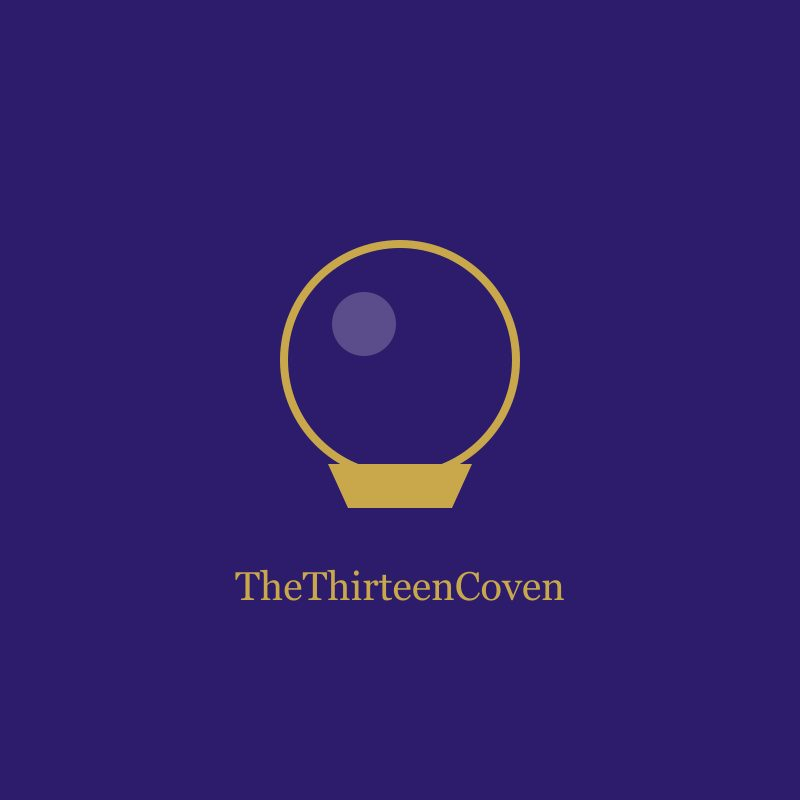
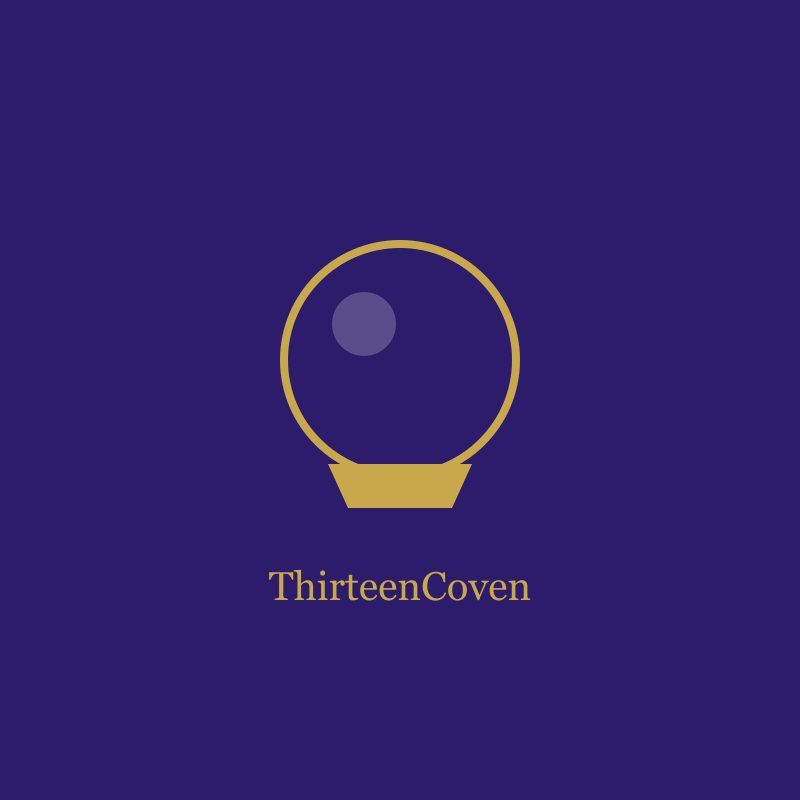
Rename brand from TheThirteenCoven to ThirteenCoven
Covers page metadata and titles, header, hero, footer, about copy, buyer
protection panel, review responses, messages, admin defaults and YouTube
upload descriptions. Also regenerates the placeholder image, which had the
old name baked into its pixels.

The domain (thirteencoven.com) and contact address were already correct
and are unchanged.

Changed region(s): [[0.2812, 0.6875, 0.7188, 0.75]]

diff --git a/components/AdminClient.tsx b/components/AdminClient.tsx
@@ -1020,7 +1020,7 @@ function VideoUrlPicker({ value, onChange }: { value: string; onChange: (url: st
     const fd = new FormData()
     fd.append('file', file)
     fd.append('title', 'Client Testimonial')
-    fd.append('description', 'TheThirteenCoven — Client Testimonial')
+    fd.append('description', 'ThirteenCoven — Client Testimonial')
     const interval = setInterval(() => setProgress(p => Math.min(p + 7, 90)), 800)
     const res = await fetch('/api/admin/youtube', { method: 'POST', body: fd })
     const data = await res.json()
@@ -1307,7 +1307,7 @@ function AdminAbout() {
             type="text"
             className="w-full border rounded-xl px-4 py-2.5 text-sm outline-none"
             style={{ borderColor: '#d1d5db', color: '#1a1040' }}
-            placeholder="About TheThirteenCoven"
+            placeholder="About ThirteenCoven"
             value={heading}
             onChange={e => setHeading(e.target.value)}
           />
@@ -1438,7 +1438,7 @@ function AdminBranding() {
           {bannerUrl
             // eslint-disable-next-line @next/next/no-img-element -- admin-only preview of an already-optimised Cloudinary upload
             ? <img src={bannerUrl} alt="Current shop banner" className="w-full h-full object-cover" />
-            : <p className="text-white/40 text-sm italic">TheThirteenCoven</p>
+            : <p className="text-white/40 text-sm italic">ThirteenCoven</p>
           }
           <div className="absolute inset-0 bg-black/40 opacity-0 group-hover:opacity-100 transition-opacity flex items-center justify-center">
             <p className="text-white text-sm font-semibold flex items-center gap-2"><Upload size={16} /> {uploading === 'banner' ? 'Uploading...' : 'Change banner'}</p>
@@ -1717,7 +1717,7 @@ function AdminMessages() {
                   id="admin-reply"
                   value={reply}
                   onChange={e => setReply(e.target.value)}
-                  placeholder="Reply as TheThirteenCoven…"
+                  placeholder="Reply as ThirteenCoven…"
                   className="flex-1 border border-gray-200 rounded-full px-4 py-2 text-sm outline-none focus:border-gray-400"
                 />
                 <button type="submit" disabled={sending || !reply.trim()}
@@ -1782,7 +1782,7 @@ function MediaUploader({
     const fd = new FormData()
     fd.append('file', file)
     fd.append('title', productTitle || 'Product Video')
-    fd.append('description', `TheThirteenCoven — ${productTitle || 'Product Video'}`)
+    fd.append('description', `ThirteenCoven — ${productTitle || 'Product Video'}`)
 
     // Simulate progress (YouTube API doesn't give progress via fetch)
     const progressInterval = setInterval(() => {

diff --git a/components/Footer.tsx b/components/Footer.tsx
@@ -61,7 +61,7 @@ export default function Footer() {
             <Link href="/" className="flex items-center gap-2">
               <Star size={22} className="text-yellow-400 fill-yellow-400" />
               <span className="font-bold text-lg" style={{ fontFamily: 'Georgia, serif' }}>
-                TheThirteenCoven
+                ThirteenCoven
               </span>
             </Link>
             <p className="text-sm text-white/60 mt-3 max-w-xs">
@@ -92,7 +92,7 @@ export default function Footer() {
         {/* Bottom row: socials + copyright */}
         <div className="mt-10 pt-6 border-t border-white/10 flex flex-col sm:flex-row items-center justify-between gap-4">
           <p className="text-xs text-white/50 order-2 sm:order-1">
-            © {new Date().getFullYear()} TheThirteenCoven. All rights reserved.
+            © {new Date().getFullYear()} ThirteenCoven. All rights reserved.
           </p>
           <SocialIcons links={socialLinks} className="order-1 sm:order-2 text-white/70" />
         </div>

diff --git a/components/ProductDetailClient.tsx b/components/ProductDetailClient.tsx
@@ -382,7 +382,7 @@ export default function ProductDetailClient({ product, reviews, shopStats, relat
             <path d="M15 18l2 2 4-4" stroke="#7c3aed" strokeWidth="1.5" strokeLinecap="round" strokeLinejoin="round"/>
           </svg>
           <div>
-            <p className="text-sm font-bold mb-0.5" style={{ color: '#1a1040' }}>TheThirteenCoven Buyer Protection</p>
+            <p className="text-sm font-bold mb-0.5" style={{ color: '#1a1040' }}>ThirteenCoven Buyer Protection</p>
             <p className="text-xs leading-relaxed" style={{ color: '#6b6670' }}>
               Shop confidently knowing that if something goes wrong with your order, we&apos;ve got your back. Every purchase is protected by our satisfaction commitment —{' '}
               <a href="/refund-policy" className="underline" style={{ color: '#1a1040' }}>see our refund policy</a>.

diff --git a/app/community/[slug]/page.tsx b/app/community/[slug]/page.tsx
@@ -16,7 +16,7 @@ export async function generateMetadata({ params }: Props): Promise<Metadata> {
 
   const title = article.metaTitle || article.title
   const description = article.metaDescription || article.excerpt || article.title
-  const shopName = getShopSetting('shop_name') || 'TheThirteenCoven'
+  const shopName = getShopSetting('shop_name') || 'ThirteenCoven'
 
   return {
     title: `${title} — ${shopName}`,
@@ -66,7 +66,7 @@ export default async function ArticlePage({ params }: Props) {
   const article = getArticleBySlug(slug)
   if (!article || !article.isPublished) notFound()
 
-  const shopName = getShopSetting('shop_name') || 'TheThirteenCoven'
+  const shopName = getShopSetting('shop_name') || 'ThirteenCoven'
   const relatedArticles = getPublishedArticles(4).filter(a => a.id !== article.id).slice(0, 3)
 
   const jsonLd = {

diff --git a/app/api/admin/youtube/route.ts b/app/api/admin/youtube/route.ts
@@ -18,7 +18,7 @@ export async function POST(req: NextRequest) {
     const formData = await req.formData()
     const file = formData.get('file') as File
     const title = (formData.get('title') as string) || 'Product Video'
-    const description = (formData.get('description') as string) || 'TheThirteenCoven product video'
+    const description = (formData.get('description') as string) || 'ThirteenCoven product video'
 
     if (!file) return NextResponse.json({ error: 'No file provided' }, { status: 400 })
 
@@ -37,7 +37,7 @@ export async function POST(req: NextRequest) {
         snippet: {
           title,
           description,
-          tags: ['TheThirteenCoven', 'spell', 'reading', 'spiritual'],
+          tags: ['ThirteenCoven', 'spell', 'reading', 'spiritual'],
         },
         status: {
           privacyStatus: 'unlisted',

diff --git a/app/layout.tsx b/app/layout.tsx
@@ -14,12 +14,12 @@ const siteUrl = process.env.NEXT_PUBLIC_SITE_URL || 'http://localhost:3000'
 export const metadata: Metadata = {
   metadataBase: new URL(siteUrl),
   title: {
-    default: 'TheThirteenCoven — Spell Casting & Spiritual Services',
-    template: '%s | TheThirteenCoven',
+    default: 'ThirteenCoven — Spell Casting & Spiritual Services',
+    template: '%s | ThirteenCoven',
   },
-  description: 'Powerful spell casting, psychic readings, and spiritual services by TheThirteenCoven. Love spells, protection rituals, money magic, and more.',
+  description: 'Powerful spell casting, psychic readings, and spiritual services by ThirteenCoven. Love spells, protection rituals, money magic, and more.',
   openGraph: {
-    siteName: 'TheThirteenCoven',
+    siteName: 'ThirteenCoven',
     type: 'website',
   },
 }

diff --git a/components/ShopTabs.tsx b/components/ShopTabs.tsx
@@ -32,8 +32,8 @@ interface Props {
 }
 
 const ABOUT_DEFAULTS = {
-  heading: 'About TheThirteenCoven',
-  body: `Welcome to TheThirteenCoven — a sanctuary of authentic spiritual services rooted in ancient traditions. I am a dedicated practitioner with over six years of experience in spell casting, energy work, and intuitive readings.
+  heading: 'About ThirteenCoven',
+  body: `Welcome to ThirteenCoven — a sanctuary of authentic spiritual services rooted in ancient traditions. I am a dedicated practitioner with over six years of experience in spell casting, energy work, and intuitive readings.
 
 My practice draws from multiple spiritual lineages including Hoodoo, Wicca, Tantra, and West African spiritual traditions. Every ritual I perform is done with intention, care, and respect for the spiritual forces I work with.
 

diff --git a/components/ReviewsList.tsx b/components/ReviewsList.tsx
@@ -101,7 +101,7 @@ export default function ReviewsList({ reviews, averageRating, totalCount }: Prop
 
             {r.sellerResponse && (
               <div className="mt-3 pl-3 border-l-2 border-yellow-400">
-                <p className="text-xs font-semibold mb-0.5" style={{ color: '#c9a84c' }}>Response from TheThirteenCoven</p>
+                <p className="text-xs font-semibold mb-0.5" style={{ color: '#c9a84c' }}>Response from ThirteenCoven</p>
                 <p className="text-xs leading-relaxed" style={{ color: '#374151' }}>{r.sellerResponse}</p>
               </div>
             )}

diff --git a/app/product/[slug]/page.tsx b/app/product/[slug]/page.tsx
@@ -20,7 +20,7 @@ export async function generateMetadata({ params }: { params: Promise<{ slug: str
 
   return {
     title: product.title,
-    description: description || `${product.title} — spell casting and spiritual services by TheThirteenCoven.`,
+    description: description || `${product.title} — spell casting and spiritual services by ThirteenCoven.`,
     alternates: { canonical: `/product/${product.slug}` },
     openGraph: {
       title: product.title,

diff --git a/app/account/profile/page.tsx b/app/account/profile/page.tsx
@@ -28,7 +28,7 @@ export default function ProfilePage() {
         </div>
         <h2 className="text-2xl font-bold mb-2" style={{ color: '#1a1040' }}>{firstName}</h2>
         <p className="text-sm mb-4" style={{ color: '#6b6670' }}>
-          Welcome to TheThirteenCoven — a place of magic, healing, and spiritual growth.
+          Welcome to ThirteenCoven — a place of magic, healing, and spiritual growth.
         </p>
 
         {/* Stats */}

diff --git a/app/privacy-policy/page.tsx b/app/privacy-policy/page.tsx
@@ -5,7 +5,7 @@ import PolicyDoc from '@/components/PolicyDoc'
 
 export const dynamic = 'force-dynamic'
 
-export const metadata = { title: 'Privacy Policy — TheThirteenCoven' }
+export const metadata = { title: 'Privacy Policy — ThirteenCoven' }
 
 export default function PrivacyPolicyPage() {
   const override = (getDb().prepare('SELECT value FROM shop_settings WHERE key = ?').get('page_privacy-policy') as { value: string } | undefined)?.value

diff --git a/app/refund-policy/page.tsx b/app/refund-policy/page.tsx
@@ -5,7 +5,7 @@ import PolicyDoc from '@/components/PolicyDoc'
 
 export const dynamic = 'force-dynamic'
 
-export const metadata = { title: 'Refund Policy — TheThirteenCoven' }
+export const metadata = { title: 'Refund Policy — ThirteenCoven' }
 
 export default function RefundPolicyPage() {
   const override = (getDb().prepare('SELECT value FROM shop_settings WHERE key = ?').get('page_refund-policy') as { value: string } | undefined)?.value
